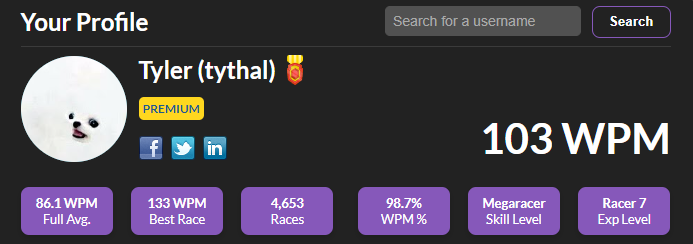
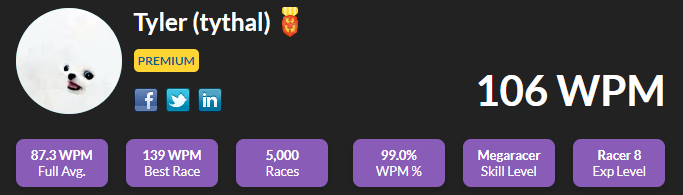
Headings, Scorecard, & Intro
-Initial changes for updating page for 5k races

diff --git a/typeracer.html b/typeracer.html
@@ -9,7 +9,7 @@
     <link rel="stylesheet" href="./CSS/style.css">
     <link rel="stylesheet" href="./CSS/typeracer.css">
 
-    <title>TRadke Typeracer</title>
+    <title>5,000 Typeraces</title>
 </head>
 
 <body>
@@ -23,14 +23,14 @@
     </header>
 
     <h1>
-        Typeracer Project
+        5,000 Typeraces
     </h1>
 
     <section class="score-badge">
         <a href="https://data.typeracer.com/pit/profile?user=tythal&ref=badge">
             <img src="./images/typeracer-profile-summary.png" alt="Typeracer Score Card"/>
         </a>
-        <p>Aug. 31, 2022</p>
+        <p>Sep. 6, 2022</p>
         <section class="section-break"></section>
     </section>
     
@@ -42,12 +42,12 @@
         <section class="collapsible-content" id="intro-collapse">
 
             <section class="intro">
-                <p>During the summer of 2018 I decided to train myself on "proper" touch typing.
-                    I was already familiar with typeracer, and as soon as I found out I could download my data I knew I wanted to make a project out of it.
+                <p>
+                    During the summer of 2018 I decided to train myself on "proper" touch typing. I started with and still prefer <a href="https://play.typeracer.com/">typeracer.com</a>, but there are good alternatives.
                     <br><br>
-                    This scatterplot depicts a high-level summary of my progress thus far. The following sections will explore my typeracer activity, individual races, and WPM improvement (TODO).
+                    The scatterplot depicts a high-level summary of my progress thus far. The following sections will explore my typeracer activity, individual races, and WPM improvement (TODO).
                     <br><br>
-                    Lastly, I would like to credit <a href="https://typeracerdata.com/profile?username=tythal">typeracerdata.com</a> for inspiring or simplifying several parts of this project. 
+                    This project was multipurpose. It let me reflect on my progress which is an important step in further improvement. Moreover, it gave me an opportunity to dig my teeth into Excel (where most of the stats and charts were created). Lastly, I would like to credit <a href="https://typeracerdata.com/profile?username=tythal">typeracerdata.com</a> for inspiring or simplifying several parts of this project. 
                 </p>
                 <img src="./images/charts/scatter-full-colorcoded.png">
             </section>

diff --git a/index.html b/index.html
@@ -18,7 +18,7 @@
         <header>
             <nav>
                 <a href="https://tradke.github.io/about">About Me</a>
-                <a href="https://tradke.github.io/typeracer">Typeracer Project</a> 
+                <a href="https://tradke.github.io/typeracer">5,000 Typeraces</a> 
                 <a href="https://github.com/CMPUT301W22T31/QRAdventure/wiki">QRAdventure</a>  
             </nav>
         </header>

diff --git a/CSS/typeracer.css b/CSS/typeracer.css
@@ -62,9 +62,13 @@ nav > a {
     margin-top:40px;
 }
 
-.score-badge > p {
+.score-badge p {
     font-size:16px;
     margin-top:8px;
+}
+
+.score-badge img {
+    border:3px solid white;
 }
 
 /*----------- JS Collapsible Sections -----------*/
